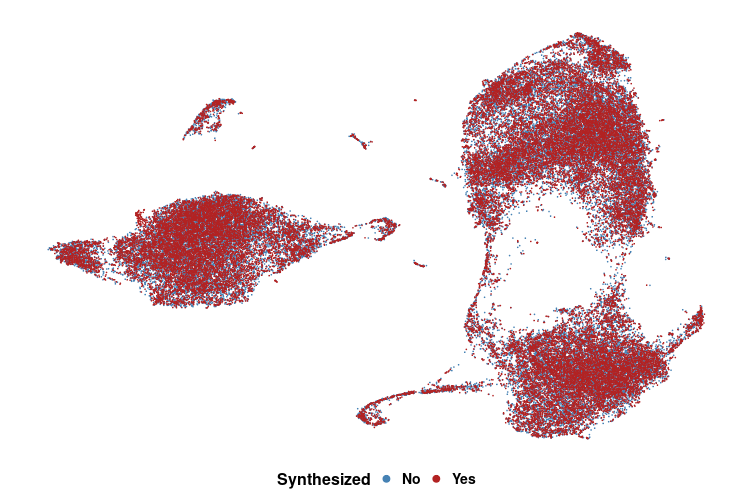
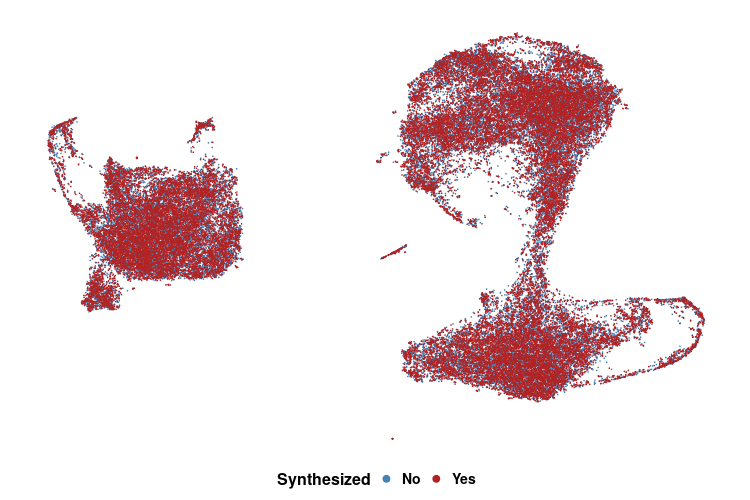
readme

diff --git a/README.md b/README.md
@@ -126,27 +126,28 @@ mtd <- data_obj$metadata
 
 #### Perform Seurat standard pipeline including synthesis process
 ```{r}
+set.seed(1234)
 sobj_synt <- CreateSeuratObject(counts=cnts,
-                                meta.data=mtd) %>% 
-  NormalizeData(., normalization.method="LogNormalize", scale.factor=1e6) %>% 
-  FindVariableFeatures(., nfeatures=2000) %>% 
-  ScaleData(.) %>% 
-  RunPCA(., seed.use = 42) %>% 
+                                meta.data=mtd) %>%
+  NormalizeData(., normalization.method="LogNormalize", scale.factor=1e4) %>%
+  FindVariableFeatures(., nfeatures=2000) %>%
+  ScaleData(.) %>%
+  RunPCA(., seed.use = 42) %>%
   RunHarmony(., group.by.vars="sample") %>% # sample-specific batch correction
-  FindNeighbors(., reduction="harmony", dims=1:30) %>% 
+  FindNeighbors(., reduction="harmony", dims=1:30) %>%
   FindClusters(., random.seed = 42) %>%
   # ================================
   # synthesis 1x cells (34,200), through modification of 10 complex components.
-  RunScGFT(., nsynth=1*dim(.)[2], ncpmnts=10, groups="seurat_clusters", scale.factor=1e6) %>%
+  RunScGFT(., nsynth=1*dim(.)[2], ncpmnts=10, groups="seurat_clusters", scale.factor=1e4) %>%
   # The combined dataset of original and synthetic cells undergoes another round.
   # ================================
-  FindVariableFeatures(., nfeatures=2000) %>% 
-  ScaleData(.) %>% 
-  RunPCA(., seed.use = 42) %>% 
+  FindVariableFeatures(., nfeatures=2000) %>%
+  ScaleData(.) %>%
+  RunPCA(., seed.use = 42) %>%
   RunHarmony(., group.by.vars=c("sample", "synthesized")) %>% # sample- and synthsis-specific batch correction
-  FindNeighbors(., reduction="harmony", dims=1:30) %>% 
-  FindClusters(., random.seed = 42) %>% 
-  RunUMAP(., reduction="harmony", seed.use = 42, dims=1:30) 
+  FindNeighbors(., reduction="harmony", dims=1:30) %>%
+  FindClusters(., random.seed = 42) %>%
+  RunUMAP(., reduction="harmony", seed.use = 42, dims=1:30)
 ```
 
 Re-normalization is not necessary as the new cells are synthesized from already normalized data.
@@ -157,21 +158,21 @@ Re-normalization is not necessary as the new cells are synthesized from already 
 statsScGFT(object=sobj_synt, groups="seurat_clusters")
 ```
 
-```text
+```{r}
 Synthesized cells: 34,200
-Matching groups: 33,890
-Accuracy (%): 99.09
+Matching groups: 34,026
+Accuracy (%): 99.49
 ```
 
 Utilizing UMAP for a qualitative evaluation, we project both synthesized and
 real cells onto the embedded manifold:
 
 <p align="center" width="100%">
-<img style="width: 70%; height: auto;" src="inst/doc/panel_1_demo.png">
+<img style="width: 65%; height: auto;" src="inst/doc/panel_1_demo.png">
 </p>
 
 <p align="center" width="100%">
-<img style="width: 80%; height: auto;" src="inst/doc/panel_2_demo.png">
+<img style="width: 85%; height: auto;" src="inst/doc/panel_2_demo.png">
 </p>
 
 We note that depending on the operating system used for calculations, the
